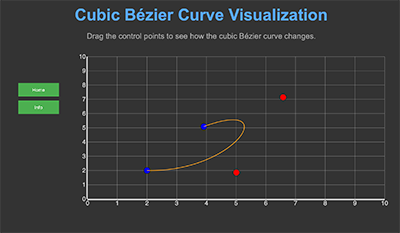
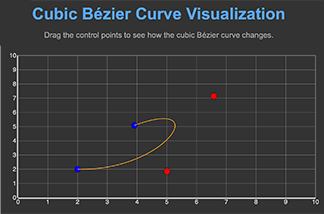
Added example for bezier spline

diff --git a/d3j/dist/bezier_spline.bundle.js b/d3j/dist/bezier_spline.bundle.js
@@ -1,0 +1,32 @@
+/*
+ * ATTENTION: The "eval" devtool has been used (maybe by default in mode: "development").
+ * This devtool is neither made for production nor for readable output files.
+ * It uses "eval()" calls to create a separate source file in the browser devtools.
+ * If you are trying to read the output file, select a different devtool (https://webpack.js.org/configuration/devtool/)
+ * or disable the default devtool with "devtool: false".
+ * If you are looking for production-ready output files, see mode: "production" (https://webpack.js.org/configuration/mode/).
+ */
+/******/ (() => { // webpackBootstrap
+/******/ 	var __webpack_modules__ = ({
+
+/***/ "./bezier_spline.js":
+/*!**************************!*\
+  !*** ./bezier_spline.js ***!
+  \**************************/
+/***/ (() => {
+
+eval("// import * as d3 from 'd3';\n\n\n// ************************************\n// Create (x,y)-plot\n// ************************************\n\nconst svg = d3.select(\"#bezierSpline\");\n\nconst margin = { top: 40, right: 40, bottom: 60, left: 100 };\nconst viewBoxWidth = 1600;\nconst viewBoxHeight = 800;\nconst width = viewBoxWidth - margin.left - margin.right;\nconst height = viewBoxHeight - margin.top - margin.bottom;\n\nconst x = d3.scaleLinear().rangeRound([0, width]);\nconst y = d3.scaleLinear().rangeRound([height, 0]);\n\n\nconst g = svg.append(\"g\").attr(\"transform\", `translate(${margin.left},${margin.top})`);\n// Set domain limits\n\n// from data\n// x.domain(d3.extent(data, d => d.x));\n// y.domain(d3.extent(data, d => d.y));\n\n// manually\nx.domain([0, 10]);\ny.domain([0, 10]);\n\n// flag to link control points\nlet linkControlPoints = false;\n\ndocument.getElementById('linkControlPoints').addEventListener('change', function() {\n    linkControlPoints = this.checked;\n});1\n\n// Create the X and Y axes with class names for future reference\nconst xAxis = g.append(\"g\")\n    .attr(\"class\", \"x axis\")  // Assign class name\n    .attr(\"transform\", `translate(0,${height})`)\n    .call(d3.axisBottom(x));\n\nconst yAxis = g.append(\"g\")\n    .attr(\"class\", \"y axis\")  // Assign class name\n    .call(d3.axisLeft(y));\n\ng.selectAll(\".y.axis text\")\n    .style(\"font-size\", \"30px\");  // Update font size\n  \n\n    g.selectAll(\".x.axis text\")\n    .style(\"font-size\", \"30px\");  // Update font size\n\n\n// Gridlines\ng.append(\"g\")   \n    .attr(\"class\", \"grid\")\n    .attr(\"transform\", `translate(0,${height})`)\n    .call(d3.axisBottom(x)\n        .tickSize(-height)\n        .tickFormat(\"\"));\n\ng.append(\"g\")   \n    .attr(\"class\", \"grid\")\n    .call(d3.axisLeft(y)\n        .tickSize(-width)\n        .tickFormat(\"\"));\n\n// Initial control points for cubic Bézier curve\nlet controlPoints = [\n    { x: 0, y: 5, isEndPoint: true }, // Start at midpoint\n    { x: 1, y: 7, isEndPoint: false }, // Control point at peak\n    { x: 2, y: 7, isEndPoint: false }, // Control point at peak\n    { x: 3, y: 5, isEndPoint: true },  // Midpoint, end of first and start of second curve\n    { x: 4, y: 3, isEndPoint: false }, // Control point at trough\n    { x: 5, y: 3, isEndPoint: false }, // Control point at trough\n    { x: 6, y: 5, isEndPoint: true },  // Midpoint, end of second and start of third curve\n    { x: 7, y: 7, isEndPoint: false }, // Control point at peak\n    { x: 8, y: 7, isEndPoint: false }, // Control point at peak\n    { x: 8, y: 5, isEndPoint: true }   // End at midpoint\n];\n\n\nfunction updateBezierCurve() {\n    let path = d3.path();\n    // Start at the first point\n    path.moveTo(x(controlPoints[0].x), y(controlPoints[0].y));\n\n    // Loop through control points in steps of 3, starting from the first control point of each curve\n    for (let i = 1; i < controlPoints.length; i += 3) {\n        path.bezierCurveTo(\n            x(controlPoints[i].x), y(controlPoints[i].y),     // First control point\n            x(controlPoints[i + 1].x), y(controlPoints[i + 1].y), // Second control point\n            x(controlPoints[i + 2].x), y(controlPoints[i + 2].y)  // End point of the segment\n        );\n    }\n\n    // Update or create the path element\n    const pathSelection = g.selectAll('.bezier-path').data([null]);\n    pathSelection.enter()\n        .append('path')\n        .merge(pathSelection)\n        .attr('d', path.toString())\n        .attr('class', 'bezier-path')\n        .attr('fill', 'none')\n        .attr('stroke', 'orange')\n        .attr('stroke-width', 2);\n}\n\n\nfunction dragged(event, d) {\n    // Translate the mouse coordinates to the group element\n    const [newX, newY] = d3.pointer(event, g.node());\n\n    // Update the dragged control point using the scales\n    d.x = x.invert(newX);\n    d.y = y.invert(newY);\n\n    // If linking is enabled and the point is not an end point\n    if (linkControlPoints && !d.isEndPoint) {\n        // Determine the indices of the neighboring control points\n        let prevIndex = (i - 1 >= 0) ? i - 1 : null;\n        let nextIndex = (i + 1 < controlPoints.length) ? i + 1 : null;\n\n        // Adjust the neighboring control points\n        if (prevIndex !== null && controlPoints[prevIndex].isEndPoint) {\n            // Calculate the mirrored position for the previous control point\n            let dx = controlPoints[prevIndex].x - d.x;\n            let dy = controlPoints[prevIndex].y - d.y;\n            controlPoints[prevIndex].x -= dx;\n            controlPoints[prevIndex].y -= dy;\n        }\n        if (nextIndex !== null && controlPoints[nextIndex].isEndPoint) {\n            // Calculate the mirrored position for the next control point\n            let dx = controlPoints[nextIndex].x - d.x;\n            let dy = controlPoints[nextIndex].y - d.y;\n            controlPoints[nextIndex].x -= dx;\n            controlPoints[nextIndex].y -= dy;\n        }\n    }\n\n    // Update the position of the circle and the curve\n    d3.select(this).attr('cx', x(d.x)).attr('cy', y(d.y));\n    updateBezierCurve();\n}\n\n// Create draggable points\nconst dragHandler = d3.drag()\n    .on('drag', dragged);\n\n\n// Bind control points to circles and apply styles depending on the point type\ng.selectAll('.control-point')\n    .data(controlPoints)\n    .enter()\n    .append('circle')\n    .attr('class', 'control-point')\n    .attr('cx', d => x(d.x))\n    .attr('cy', d => y(d.y))\n    .attr('r', 15)\n    .style('fill', d => d.isEndPoint ? 'blue' : 'red')\n    .style('stroke', 'black')\n    .style('stroke-width', 1)\n    .call(dragHandler); // Apply the drag behavior\n\n\n// Initial drawing of the Bézier curve\nupdateBezierCurve();\n\n\n//# sourceURL=webpack://sgm_interpolations/./bezier_spline.js?");
+
+/***/ })
+
+/******/ 	});
+/************************************************************************/
+/******/ 	
+/******/ 	// startup
+/******/ 	// Load entry module and return exports
+/******/ 	// This entry module can't be inlined because the eval devtool is used.
+/******/ 	var __webpack_exports__ = {};
+/******/ 	__webpack_modules__["./bezier_spline.js"]();
+/******/ 	
+/******/ })()
+;

diff --git a/d3j/bezier_spline.js b/d3j/bezier_spline.js
@@ -1,0 +1,169 @@
+// import * as d3 from 'd3';
+
+
+// ************************************
+// Create (x,y)-plot
+// ************************************
+
+const svg = d3.select("#bezierSpline");
+
+const margin = { top: 40, right: 40, bottom: 60, left: 100 };
+const viewBoxWidth = 1600;
+const viewBoxHeight = 800;
+const width = viewBoxWidth - margin.left - margin.right;
+const height = viewBoxHeight - margin.top - margin.bottom;
+
+const x = d3.scaleLinear().rangeRound([0, width]);
+const y = d3.scaleLinear().rangeRound([height, 0]);
+
+
+const g = svg.append("g").attr("transform", `translate(${margin.left},${margin.top})`);
+// Set domain limits
+
+// from data
+// x.domain(d3.extent(data, d => d.x));
+// y.domain(d3.extent(data, d => d.y));
+
+// manually
+x.domain([0, 10]);
+y.domain([0, 10]);
+
+// flag to link control points
+let linkControlPoints = false;
+
+document.getElementById('linkControlPoints').addEventListener('change', function() {
+    linkControlPoints = this.checked;
+});1
+
+// Create the X and Y axes with class names for future reference
+const xAxis = g.append("g")
+    .attr("class", "x axis")  // Assign class name
+    .attr("transform", `translate(0,${height})`)
+    .call(d3.axisBottom(x));
+
+const yAxis = g.append("g")
+    .attr("class", "y axis")  // Assign class name
+    .call(d3.axisLeft(y));
+
+g.selectAll(".y.axis text")
+    .style("font-size", "30px");  // Update font size
+  
+
+    g.selectAll(".x.axis text")
+    .style("font-size", "30px");  // Update font size
+
+
+// Gridlines
+g.append("g")   
+    .attr("class", "grid")
+    .attr("transform", `translate(0,${height})`)
+    .call(d3.axisBottom(x)
+        .tickSize(-height)
+        .tickFormat(""));
+
+g.append("g")   
+    .attr("class", "grid")
+    .call(d3.axisLeft(y)
+        .tickSize(-width)
+        .tickFormat(""));
+
+// Initial control points for cubic Bézier curve
+let controlPoints = [
+    { x: 0, y: 5, isEndPoint: true }, // Start at midpoint
+    { x: 1, y: 7, isEndPoint: false }, // Control point at peak
+    { x: 2, y: 7, isEndPoint: false }, // Control point at peak
+    { x: 3, y: 5, isEndPoint: true },  // Midpoint, end of first and start of second curve
+    { x: 4, y: 3, isEndPoint: false }, // Control point at trough
+    { x: 5, y: 3, isEndPoint: false }, // Control point at trough
+    { x: 6, y: 5, isEndPoint: true },  // Midpoint, end of second and start of third curve
+    { x: 7, y: 7, isEndPoint: false }, // Control point at peak
+    { x: 8, y: 7, isEndPoint: false }, // Control point at peak
+    { x: 8, y: 5, isEndPoint: true }   // End at midpoint
+];
+
+
+function updateBezierCurve() {
+    let path = d3.path();
+    // Start at the first point
+    path.moveTo(x(controlPoints[0].x), y(controlPoints[0].y));
+
+    // Loop through control points in steps of 3, starting from the first control point of each curve
+    for (let i = 1; i < controlPoints.length; i += 3) {
+        path.bezierCurveTo(
+            x(controlPoints[i].x), y(controlPoints[i].y),     // First control point
+            x(controlPoints[i + 1].x), y(controlPoints[i + 1].y), // Second control point
+            x(controlPoints[i + 2].x), y(controlPoints[i + 2].y)  // End point of the segment
+        );
+    }
+
+    // Update or create the path element
+    const pathSelection = g.selectAll('.bezier-path').data([null]);
+    pathSelection.enter()
+        .append('path')
+        .merge(pathSelection)
+        .attr('d', path.toString())
+        .attr('class', 'bezier-path')
+        .attr('fill', 'none')
+        .attr('stroke', 'orange')
+        .attr('stroke-width', 2);
+}
+
+
+function dragged(event, d) {
+    // Translate the mouse coordinates to the group element
+    const [newX, newY] = d3.pointer(event, g.node());
+
+    // Update the dragged control point using the scales
+    d.x = x.invert(newX);
+    d.y = y.invert(newY);
+
+    // If linking is enabled and the point is not an end point
+    if (linkControlPoints && !d.isEndPoint) {
+        // Determine the indices of the neighboring control points
+        let prevIndex = (i - 1 >= 0) ? i - 1 : null;
+        let nextIndex = (i + 1 < controlPoints.length) ? i + 1 : null;
+
+        // Adjust the neighboring control points
+        if (prevIndex !== null && controlPoints[prevIndex].isEndPoint) {
+            // Calculate the mirrored position for the previous control point
+            let dx = controlPoints[prevIndex].x - d.x;
+            let dy = controlPoints[prevIndex].y - d.y;
+            controlPoints[prevIndex].x -= dx;
+            controlPoints[prevIndex].y -= dy;
+        }
+        if (nextIndex !== null && controlPoints[nextIndex].isEndPoint) {
+            // Calculate the mirrored position for the next control point
+            let dx = controlPoints[nextIndex].x - d.x;
+            let dy = controlPoints[nextIndex].y - d.y;
+            controlPoints[nextIndex].x -= dx;
+            controlPoints[nextIndex].y -= dy;
+        }
+    }
+
+    // Update the position of the circle and the curve
+    d3.select(this).attr('cx', x(d.x)).attr('cy', y(d.y));
+    updateBezierCurve();
+}
+
+// Create draggable points
+const dragHandler = d3.drag()
+    .on('drag', dragged);
+
+
+// Bind control points to circles and apply styles depending on the point type
+g.selectAll('.control-point')
+    .data(controlPoints)
+    .enter()
+    .append('circle')
+    .attr('class', 'control-point')
+    .attr('cx', d => x(d.x))
+    .attr('cy', d => y(d.y))
+    .attr('r', 15)
+    .style('fill', d => d.isEndPoint ? 'blue' : 'red')
+    .style('stroke', 'black')
+    .style('stroke-width', 1)
+    .call(dragHandler); // Apply the drag behavior
+
+
+// Initial drawing of the Bézier curve
+updateBezierCurve();

diff --git a/d3j/dist/modal.bundle.js b/d3j/dist/modal.bundle.js
@@ -15,7 +15,7 @@
   \******************/
 /***/ (() => {
 
-eval("// modal.js\ndocument.addEventListener('DOMContentLoaded', function() {\n    var modal = document.getElementById(\"infoModal\");\n    var btn = document.getElementById(\"infoBtn\");\n    var span = document.getElementsByClassName(\"close\")[0];\n\n    btn.onclick = function() {\n        modal.style.display = \"block\";\n    };\n\n    span.onclick = function() {\n        modal.style.display = \"none\";\n    };\n\n    window.onclick = function(event) {\n        if (event.target == modal) {\n            modal.style.display = \"none\";\n        }\n    };\n});\n\n// for home button\ndocument.getElementById('homeBtn').addEventListener('click', function() {\n    window.location.href = '../index.html';  // Replace 'index.html' with the correct path if different\n});\n\n//# sourceURL=webpack://sgm_interpolations/./modal.js?");
+eval("// modal.js\ndocument.addEventListener('DOMContentLoaded', function() {\n    var modal = document.getElementById(\"infoModal\");\n    var btn = document.getElementById(\"infoBtn\");\n    var span = document.getElementsByClassName(\"close\")[0];\n\n    btn.onclick = function() {\n        modal.style.display = \"block\";\n    };\n\n    span.onclick = function() {\n        modal.style.display = \"none\";\n    };\n\n    window.onclick = function(event) {\n        if (event.target == modal) {\n            modal.style.display = \"none\";\n        }\n    };\n});\n\n// for home button\ndocument.getElementById('homeBtn').addEventListener('click', function() {\n    window.location.href = '../index.html';  // Replace 'index.html' with the correct path if different\n});\n\n// For CG3 button\ndocument.getElementById('CG3Btn').addEventListener('click', function() {\n    window.open('https://www.cg3.rwth-aachen.de', '_blank');\n});\n\n//# sourceURL=webpack://sgm_interpolations/./modal.js?");
 
 /***/ })
 

diff --git a/d3j/bezier_spline.html b/d3j/bezier_spline.html
@@ -1,7 +1,7 @@
 <!DOCTYPE html>
 <html>
 <head>
-    <title>Cubic Bézier Curve Visualization</title>
+    <title>Bézier Spline Visualization</title>
     <script src="https://d3js.org/d3.v6.min.js"></script>
     <link rel="stylesheet" type="text/css" href="style_dark.css">
     <!-- MathJax for rendering equations -->
@@ -10,8 +10,8 @@
 </head>
 <body>
     <div class="content">
-        <h1>Cubic Bézier Curve Visualization</h1>
-        <p>Drag the control points to see how the cubic Bézier curve changes.</p>
+        <h1> Bézier Spline Visualization</h1>
+        <p>Drag the control points to see how the cubic Bézier spline changes.</p>
     
         <div class="flex-container">
             <div class="buttons-container">
@@ -24,13 +24,17 @@
             </div>
     
             <div class="plot-container">
-                <svg id="bezierPlot" width="800" height="400" viewBox="0 0 1600 800"></svg>
+                <svg id="bezierSpline" width="800" height="400" viewBox="0 0 1600 800"></svg>
             </div>
+            <div class="checkbox-container">
+                <input type="checkbox" id="linkControlPoints" name="linkControlPoints">
+                <label for="linkControlPoints">Link Control Points</label>
+            </div>            
         </div>
     </div>
 
     <!-- JavaScript for Bézier Curve -->
-    <script type="module" src="./dist/bezier_curve.bundle.js"></script>
+    <script type="module" src="./dist/bezier_spline.bundle.js"></script>
 
     <!-- Info Modal -->
     <div id="infoModal" class="modal">

diff --git a/d3j/spline_interpolation.html b/d3j/spline_interpolation.html
@@ -19,12 +19,19 @@
             <div class="buttons-container">
                 <button id="homeBtn">Home</button>
                 <button id="infoBtn">Info</button>
+                <button id="CG3Btn">
+                    <!-- <img src="./images/SA_schematics_fig_a_Zeichenfläche 1.png" alt="Icon" style="height: 20px; margin-right: 5px;"> -->
+                    CG3
+                </button>
             </div>
     
             <div class="plot-container">
                 <svg id="plotArea" width="800" height="400" viewBox="0 0 1600 800"></svg>
             </div>
+
         </div>
+        <!-- (c) CG3, Florian Wellmann, RWTH Aachen -->
+
     </div>
 
     <script type="module" src="./dist/spline_interpolation.bundle.js"></script>
@@ -52,6 +59,7 @@
             <p>
                 where \( S(x) \) is the spline function, and \( a_i, b_i, c_i, \) and \( d_i \) are the spline coefficients for the <i>i</i>th interval.
             </p>
+            <p>More information: <a href="https://blog.ivank.net/interpolation-with-cubic-splines.html">Blog on cubic splines</a></p>
         </div>
     </div>
 

diff --git a/index.html b/index.html
@@ -41,6 +41,17 @@
                     </div>
                 </div>
             </div>
+            <div class="tile">
+                <div class="tile-inner">
+                    <div class="tile-front">
+                        Bezier spline visualisation
+                    </div>
+                    <div class="tile-back">
+                        <a href="./d3j/bezier_spline.html" class="tile">
+                        <img width=200 src="./d3j/images/cubic_bezier.png" alt="Polynomial Regression"></a>
+                    </div>
+                </div>
+            </div>
         </div>
     <!-- <script src="script.js"></script> -->
 </body>

diff --git a/d3j/plot_interpolations.html b/d3j/plot_interpolations.html
@@ -19,6 +19,10 @@
             <div class="buttons-container">
                 <button id="homeBtn">Home</button>
                 <button id="infoBtn">Info</button>
+                <button id="CG3Btn">
+                    <!-- <img src="./images/SA_schematics_fig_a_Zeichenfläche 1.png" alt="Icon" style="height: 20px; margin-right: 5px;"> -->
+                    CG3
+                </button>
             </div>
     
             <div class="graph-slider-container"> <!-- New container for graph and slider -->
@@ -32,6 +36,7 @@
                 </div>
             </div>
         </div>
+
     </div>
 
 

diff --git a/d3j/modal.js b/d3j/modal.js
@@ -23,3 +23,8 @@ document.addEventListener('DOMContentLoaded', function() {
 document.getElementById('homeBtn').addEventListener('click', function() {
     window.location.href = '../index.html';  // Replace 'index.html' with the correct path if different
 });
+
+// For CG3 button
+document.getElementById('CG3Btn').addEventListener('click', function() {
+    window.open('https://www.cg3.rwth-aachen.de', '_blank');
+});

diff --git a/d3j/webpack.config.js b/d3j/webpack.config.js
@@ -6,6 +6,7 @@ module.exports = {
     script_interpolations: './script_interpolations.js',
     spline_interpolation: './spline_interpolation.js',
     bezier_curve: './bezier_curve.js',
+    bezier_spline: './bezier_spline.js',
     modal: './modal.js'
     // Add more entry points if needed
   },

diff --git a/d3j/style_dark.css b/d3j/style_dark.css
@@ -136,7 +136,7 @@ input[type="range"]::-moz-range-thumb {
 
 
 /* Home and Info Button Styles */
-#homeBtn, #infoBtn {
+#homeBtn, #infoBtn, #CG3Btn {
     background-color: #4CAF50; /* Green background */
     color: white;
     padding: 10px 20px;
